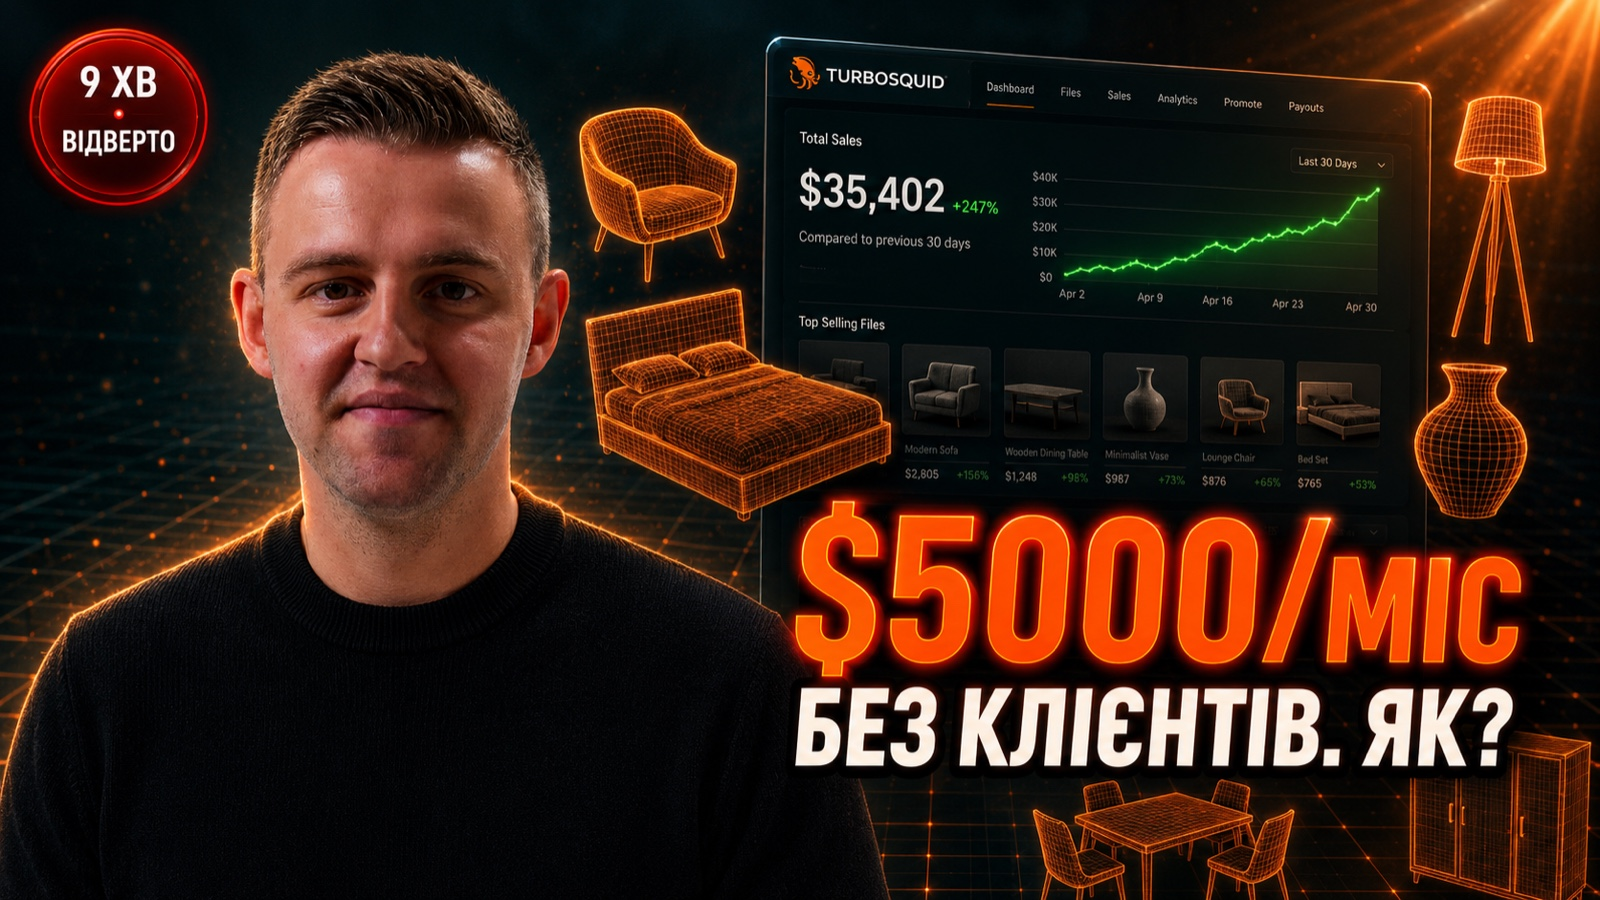
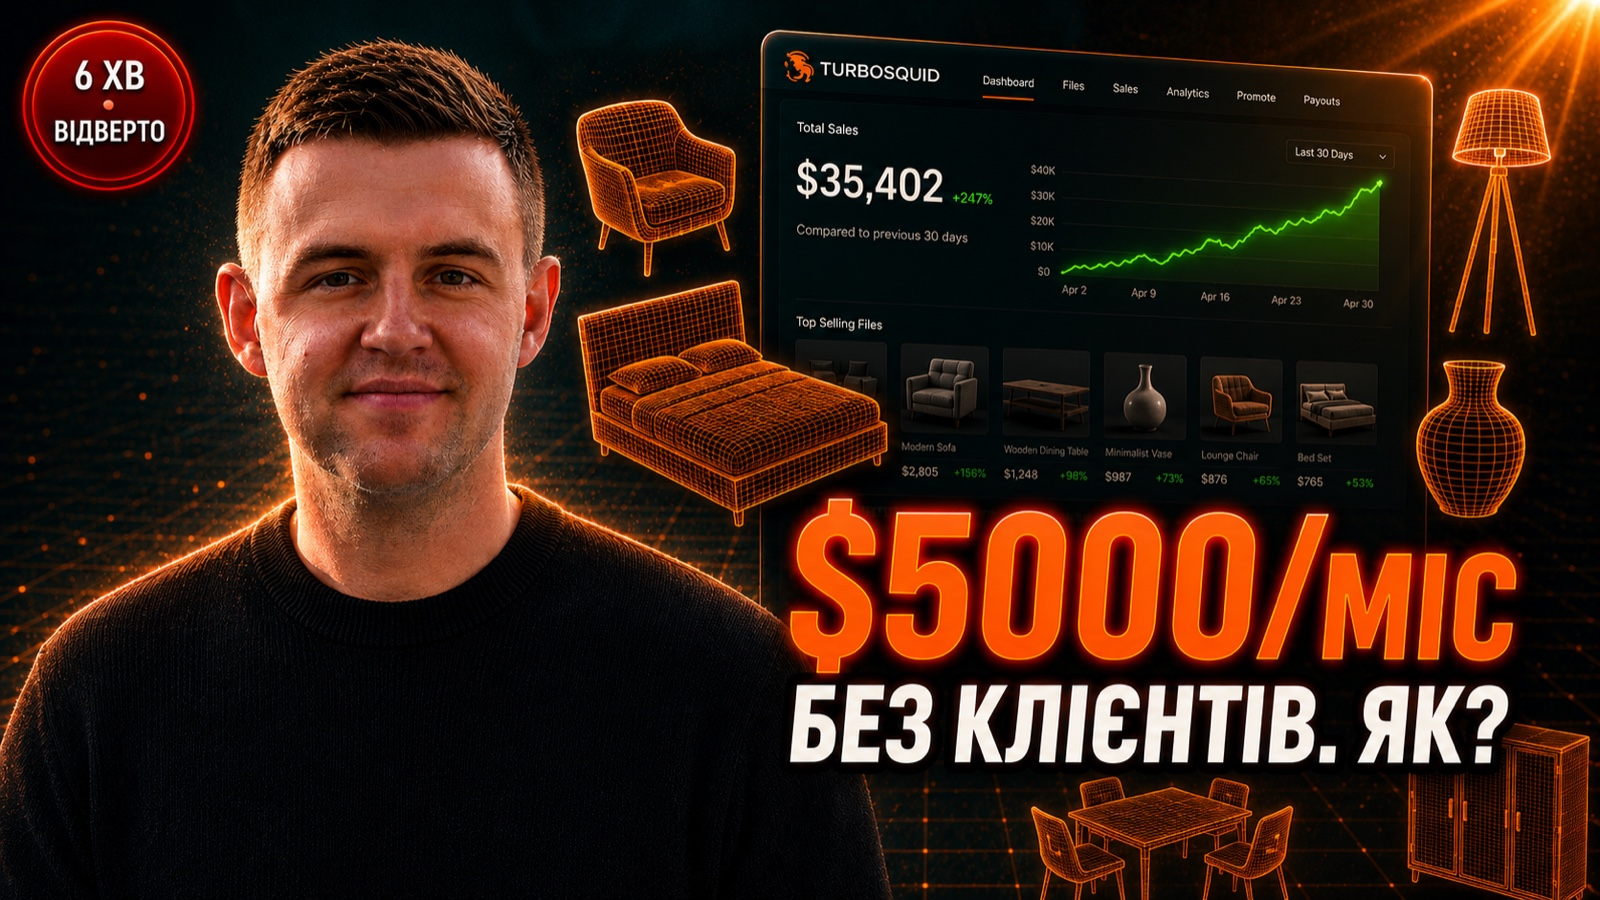
Speaker video: replace thumbnail and switch 9 хв → 6 хв across page

Changed region(s): [[0.0, 0.0, 1.0, 1.0], [0.75, 0.3111, 0.8125, 0.3422], [0.8125, 0.1556, 0.8438, 0.1867]]

diff --git a/index.html b/index.html
@@ -3094,7 +3094,7 @@
   <div class="path-divider">
     <div class="path-marker">
       <div class="path-num">04</div>
-      <div class="path-label">Етап 4<span class="path-label-strong">9 хвилин, які все пояснюють</span></div>
+      <div class="path-label">Етап 4<span class="path-label-strong">6 хвилин, які все пояснюють</span></div>
     </div>
   </div>
 
@@ -3103,17 +3103,17 @@
     <div class="container">
       <span class="pill pill--cyan section-tag">Подивіться це відео</span>
       <h2 class="section-title">Як буде працювати<br>Ваш <span class="grad-cyan">цифровий актив</span></h2>
-      <p class="section-sub">Перш ніж натиснути «Подати заявку» — подивіться ці 9 хвилин. Засновник Visual360 розкладає на пальцях, як з 10 створених моделей за місяць виходить $5 000+/міс пасивного прибутку і чому вікно для входу відкрито саме зараз.</p>
+      <p class="section-sub">Перш ніж натиснути «Подати заявку» — подивіться ці 6 хвилин. Засновник Visual360 розкладає на пальцях, як з 10 створених моделей за місяць виходить $5 000+/міс пасивного прибутку і чому вікно для входу відкрито саме зараз.</p>
 
       <div class="speaker-video">
         <button type="button" class="speaker-video-cover" onclick="openLongVideo()" aria-label="Дивитись повне відео від Віктора">
-          <img src="speaker/viktor-thumb-9min.jpg" alt="Віктор — Цифровий актив за 9 хвилин" loading="lazy">
+          <img src="speaker/viktor-thumb-9min.jpg" alt="Віктор — Цифровий актив за 6 хвилин" loading="lazy">
           <span class="speaker-video-tag">📹 ПОВНЕ ВІДЕО</span>
-          <span class="speaker-video-time">9 ХВ</span>
+          <span class="speaker-video-time">6 ХВ</span>
           <span class="speaker-video-play"></span>
         </button>
         <div class="speaker-video-body">
-          <span class="speaker-video-pill">5 тез, які ви зрозумієте за 9 хвилин</span>
+          <span class="speaker-video-pill">5 тез, які ви зрозумієте за 6 хвилин</span>
           <h3 class="speaker-video-title">Подивіться це відео перед тим, як йти далі</h3>
           <ul class="speaker-video-triggers">
             <li><b>Як саме ви почнете заробляти</b> — від першої моделі до перших грошей на рахунку</li>
@@ -3122,7 +3122,7 @@
             <li><b>Як за допомогою АІ</b> збільшувати швидкість у 3-5 разів у цій сфері та заробляти більше</li>
             <li><b>Почуєте усі за і проти</b> та зрозумієте, чи підходить це Вам</li>
           </ul>
-          <button type="button" class="speaker-video-btn" onclick="openLongVideo()">▶ Дивитись повне відео (9 хв)</button>
+          <button type="button" class="speaker-video-btn" onclick="openLongVideo()">▶ Дивитись повне відео (6 хв)</button>
         </div>
       </div>
 